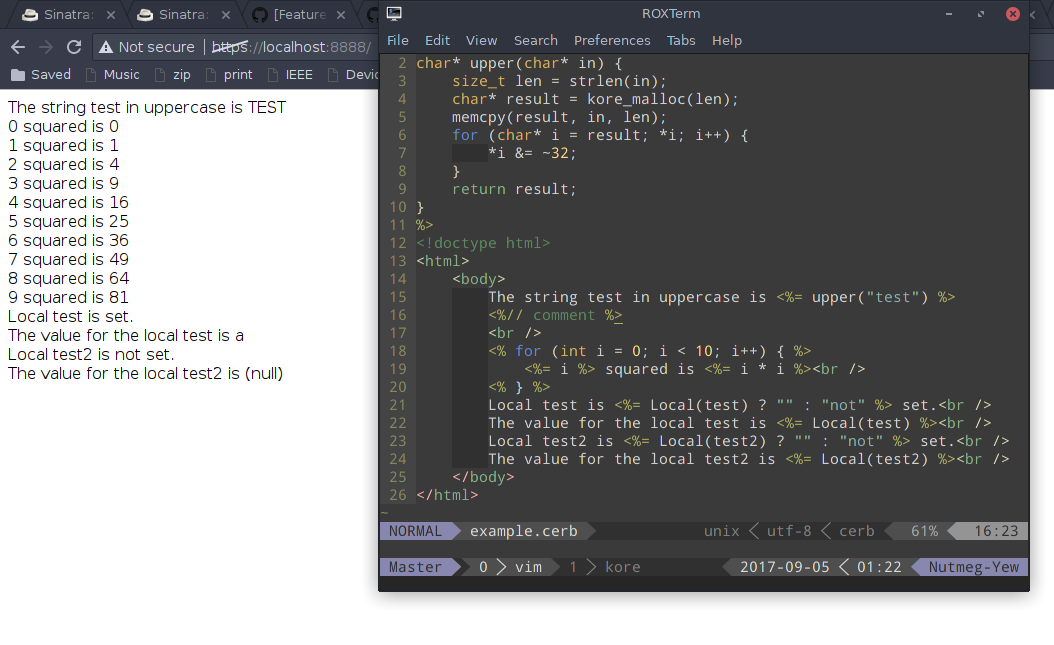
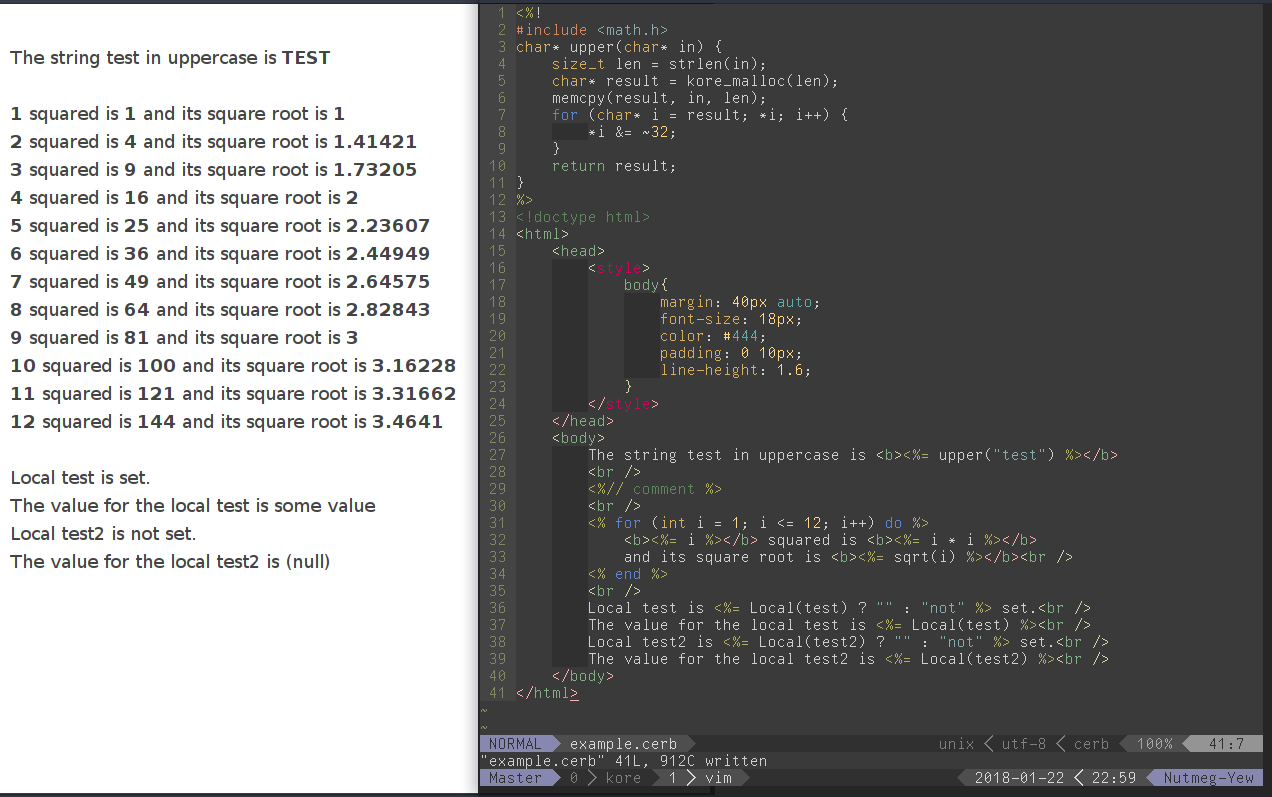
Add do, end keywords, update screenshot and readme

diff --git a/cerb.py b/cerb.py
@@ -9,10 +9,7 @@ append = """
 #include "../views.h"
 #ifndef _HAVE_CERB_APPEND
 #define _HAVE_CERB_APPEND 1
-#define _GNU_SOURCE
 #include <kore/kore.h>
-//#include <stdlib.h>
-//#include <stdio.h>
 #define Make_append(name, printer, type) void name(struct kore_buf* result, type new) { \\
     kore_buf_appendf(result, printer, new); \\
 }
@@ -34,6 +31,9 @@ void* _fetch_local(cerb_local* all_locals, char* key) {
 }
 #undef Local
 #define Local(x) _fetch_local(_locals, #x)
+#define do {
+#define then {
+#define end }
 #endif
 """
 locals_macro = """
@@ -48,9 +48,9 @@ if not os.path.exists("src/_views"): os.mkdir("src/_views")
 open("src/views.h", "w").write(locals_macro)
 for f in glob.glob("views/*.cerb"):
     outfile = "src/_" + f[:-5] + ".c"
-    #if os.path.exists(outfile) and os.stat(f).st_mtime < os.stat(outfile).st_mtime:
-        #logging.debug("File " + f + " is up to date, skipping")
-        #continue
+    if os.path.exists(outfile) and os.stat(f).st_mtime < os.stat(outfile).st_mtime:
+        logging.debug("File " + f + " is up to date, skipping")
+        continue
     pre = ""
     contents = open(f).read()
     state = HTML

diff --git a/readme.md b/readme.md
@@ -7,7 +7,7 @@ Make a views directory outside your source directory, and put `example.cerb` in 
 ```c
 	#include <views.h>
 	// ...
-	char* result = Cerb(example, (cerb_local) {"test", "a"});
+	char* result = Cerb(example, Local(test, "some value"));
 	http_response(req, 200, result, strlen(result));
 	// do NOT free result here
 	return KORE_RESULT_OK;
@@ -17,8 +17,6 @@ It should look something like this
 
 ![](ss.png)
 
-Instead of writing out the cast for each local variable, you can obtain a `cerb_local` object with the macro `Local(test, "a")` for the same effect
-
-There's currently no way to specify that you don't want any local variables
+You can use an inline struct (`(cerb_local) {"test", "value"}`) instead of the `Local` macro for the same effect, or for dynamically generated local names.
 
 You'll have to rerun cerb every time you change your view
